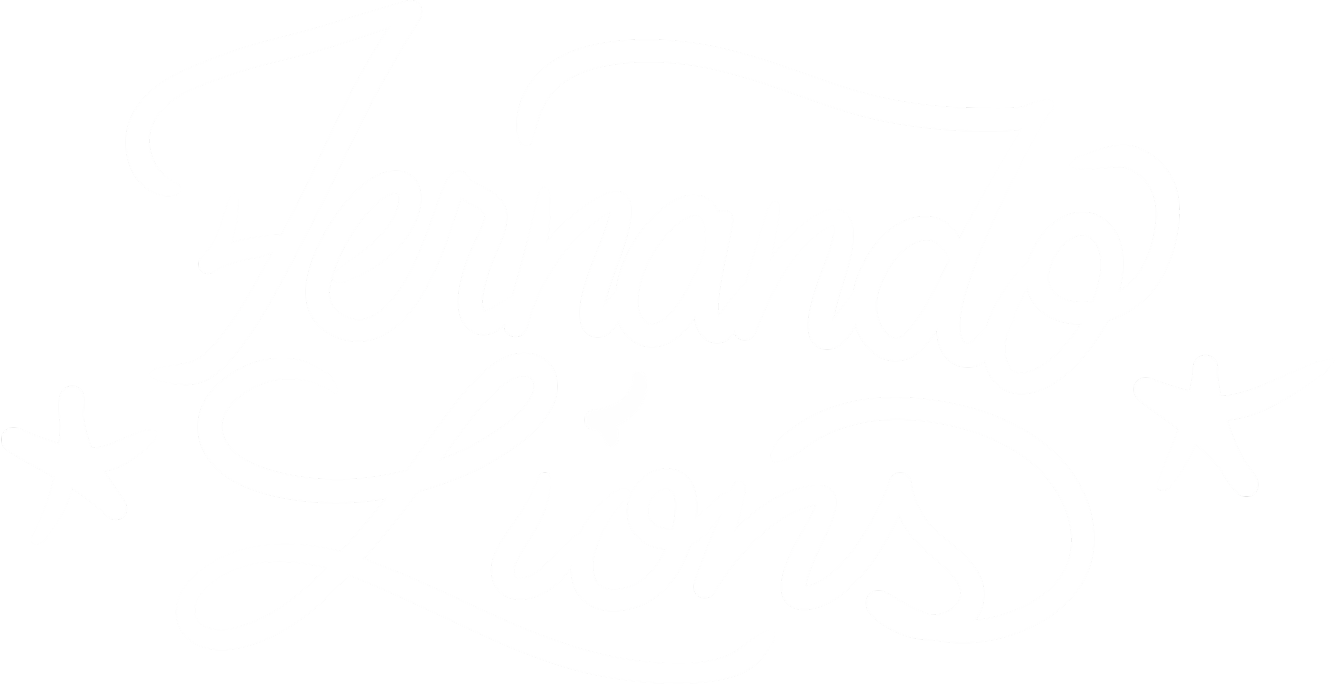
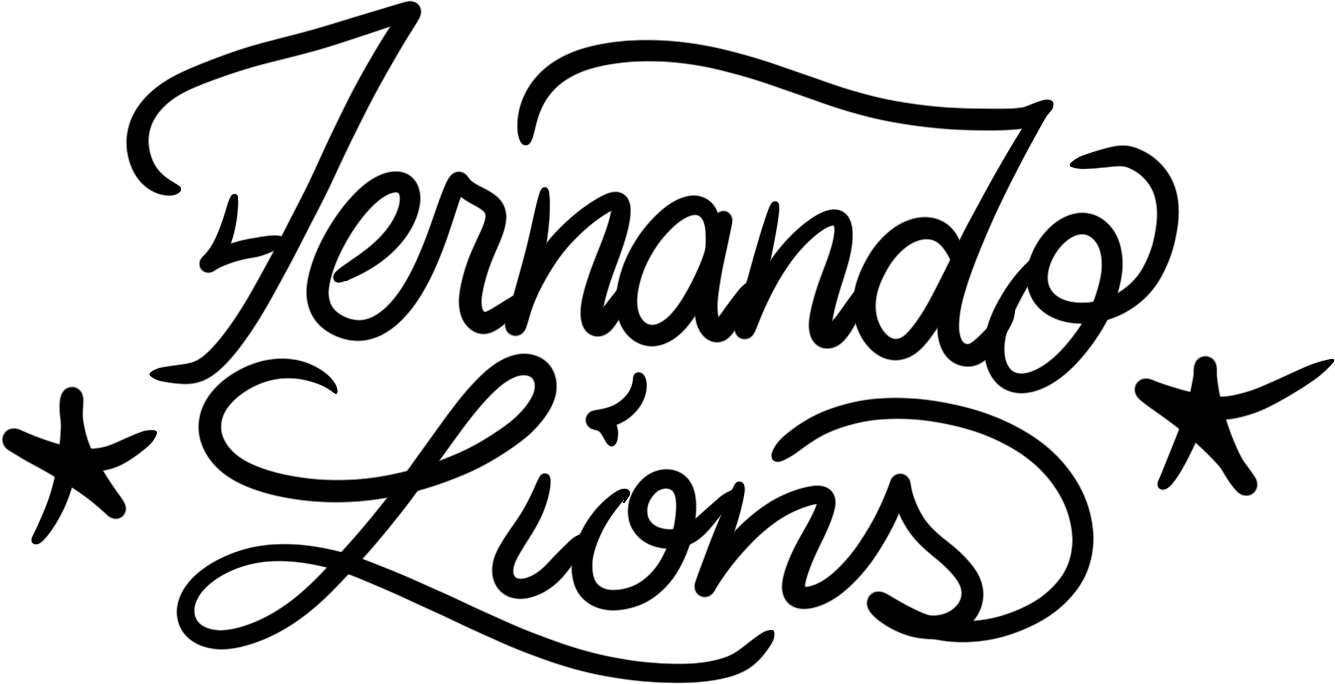
meta card info

Changed region(s): [[0.0, 0.0, 0.8906, 1.0], [0.8292, 0.5219, 1.0, 0.7368]]

diff --git a/index.html b/index.html
@@ -5,6 +5,18 @@
     <meta name="viewport" content="width=device-width, initial-scale=1.0">
     <meta http-equiv="X-UA-Compatible" content="ie=edge">
     <title>Fernando Lions</title>
+
+    <meta property="og:type" content="website">
+    <meta property="og:url" content="https://fernandolions.com/">
+    <meta property="og:title" content="Fernando Lions">
+    <meta property="og:description" content="Artist and tattooer in Bed-Stuy, Brooklyn.">
+    <meta property="og:image" content="https://fernandolions.com/img/fernando_lions.jpg">
+
+    <meta name="twitter:card" content="summary_large_image">
+    <meta name="twitter:title" content="Fernando Lions">
+    <meta name="twitter:description" content="Artist and tattooer in Bed-Stuy, Brooklyn.">
+    <meta name="twitter:image" content="https://fernandolions.com/img/fernando_lions.jpg">
+
     <link rel="stylesheet" href="./style.css">
     <link rel="icon" href="./favicon.ico" sizes="any">
     <link rel="icon" href="./favicon.png" type="image/png" sizes="48x48">

diff --git a/style.css b/style.css
@@ -62,7 +62,6 @@ main {
 
 #logo {
     position: relative;
-    filter: invert(100%);
     opacity: 1;
     transition: opacity 0.3s ease;
 }
